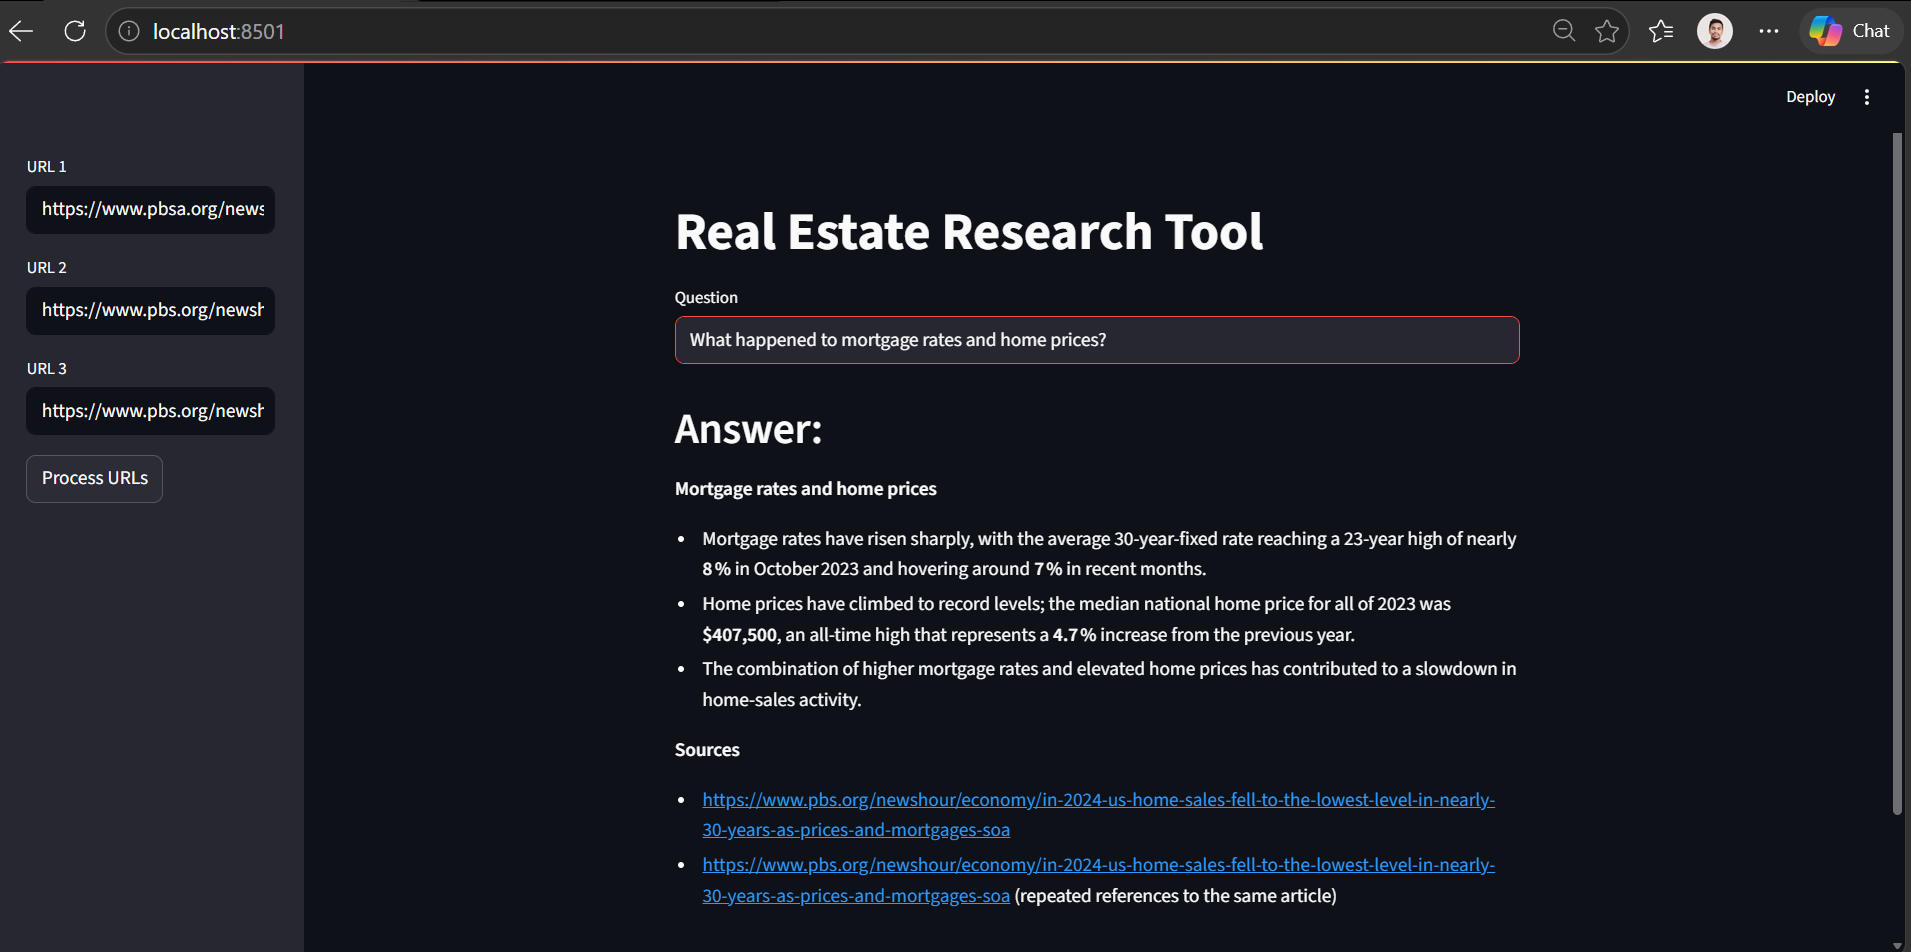
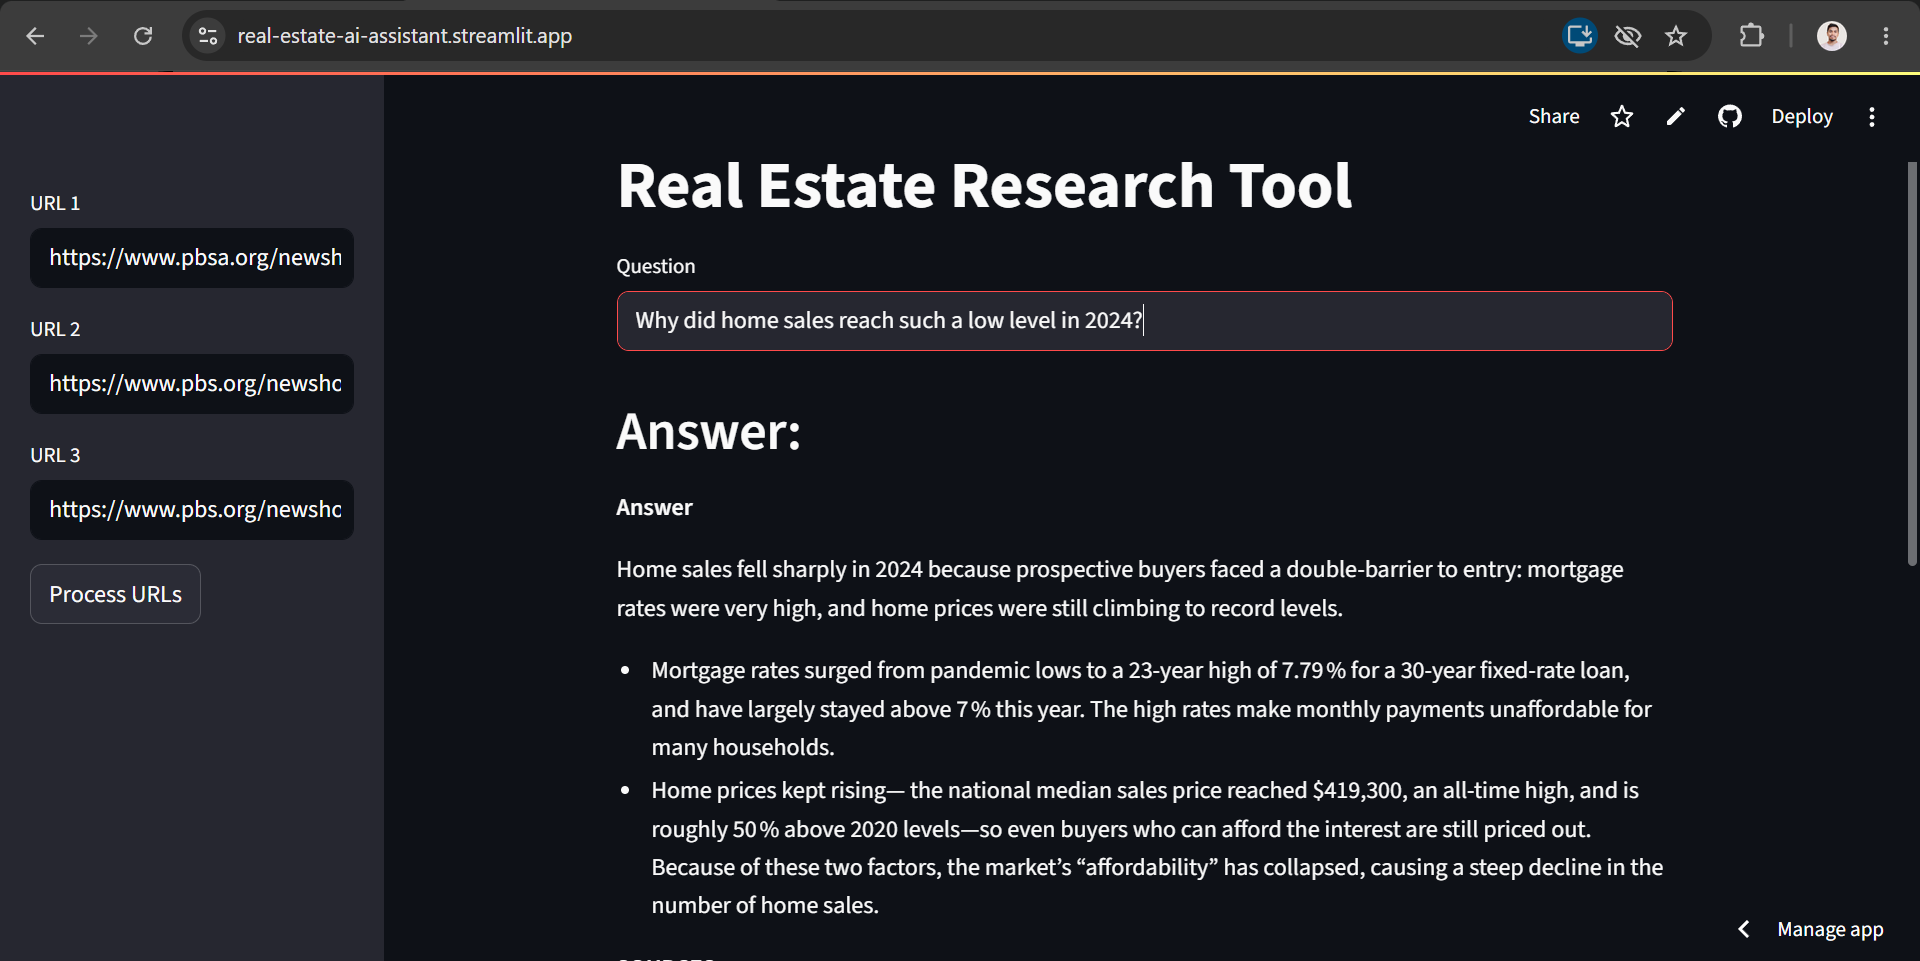
Update project

diff --git a/rag.py b/rag.py
@@ -3,7 +3,6 @@
 from uuid import uuid4
 from dotenv import load_dotenv
 from pathlib import Path
-from prompt import PROMPT, EXAMPLE_PROMPT
 from langchain_classic.chains import RetrievalQAWithSourcesChain
 from langchain_classic.chains.qa_with_sources.loading import load_qa_with_sources_chain
 from langchain_community.document_loaders import UnstructuredURLLoader
@@ -93,7 +92,7 @@ def generate_answer(query):
 
     # Remove duplicate URLs
     sources_docs = list(dict.fromkeys(sources_docs))
-    
+
     return result['answer'], sources_docs
 
 

diff --git a/README.MD b/README.MD
@@ -131,6 +131,7 @@ The assistant retrieves relevant information from the provided webpages and gene
 ## Project Screenshot
 
 ![Real Estate AI Assistant](screenshots/project.png)
+![Real Estate AI Assistant](screenshots/project_1.png)
 
 ## Key Learning
 
